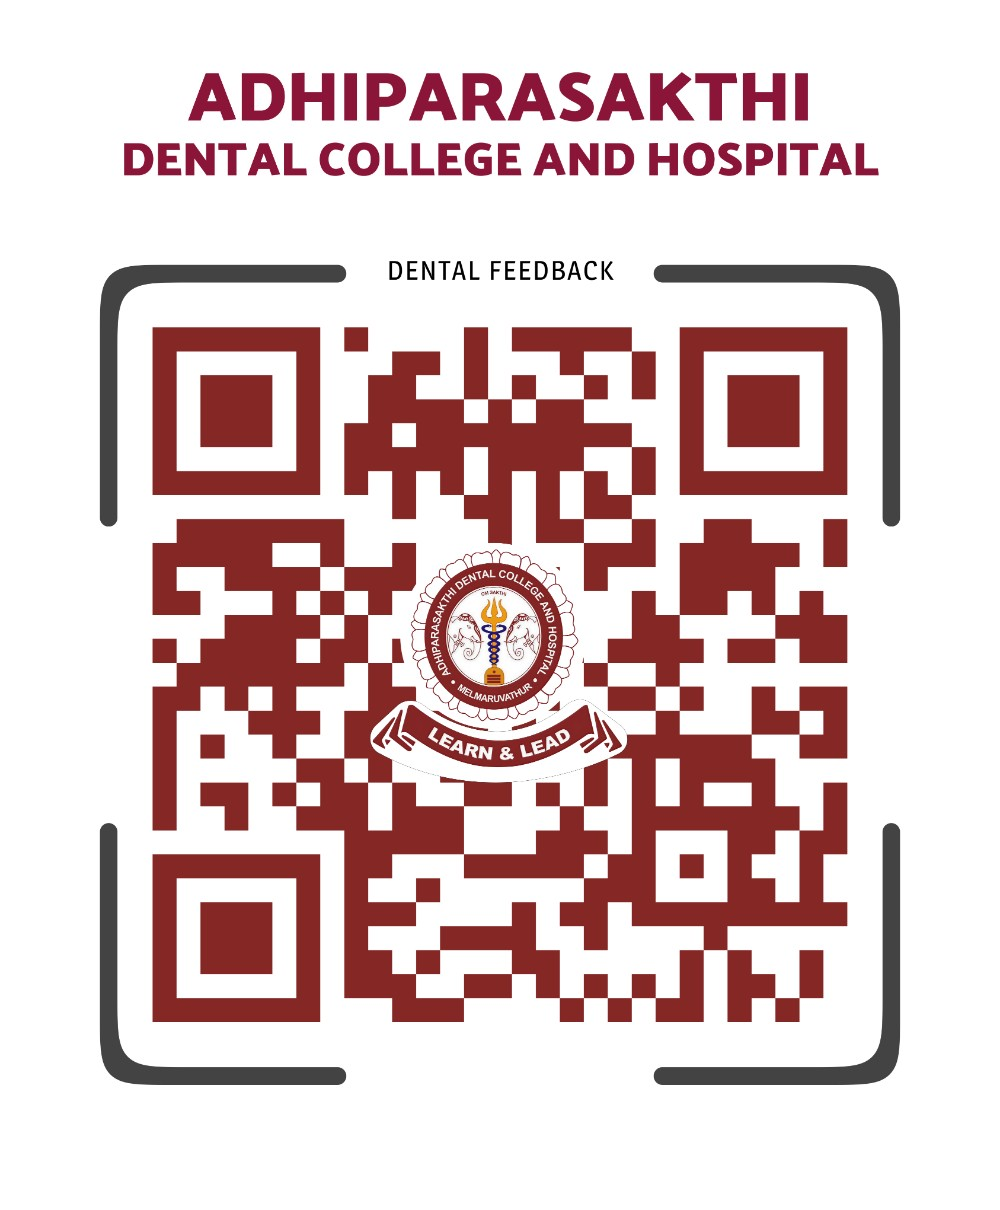
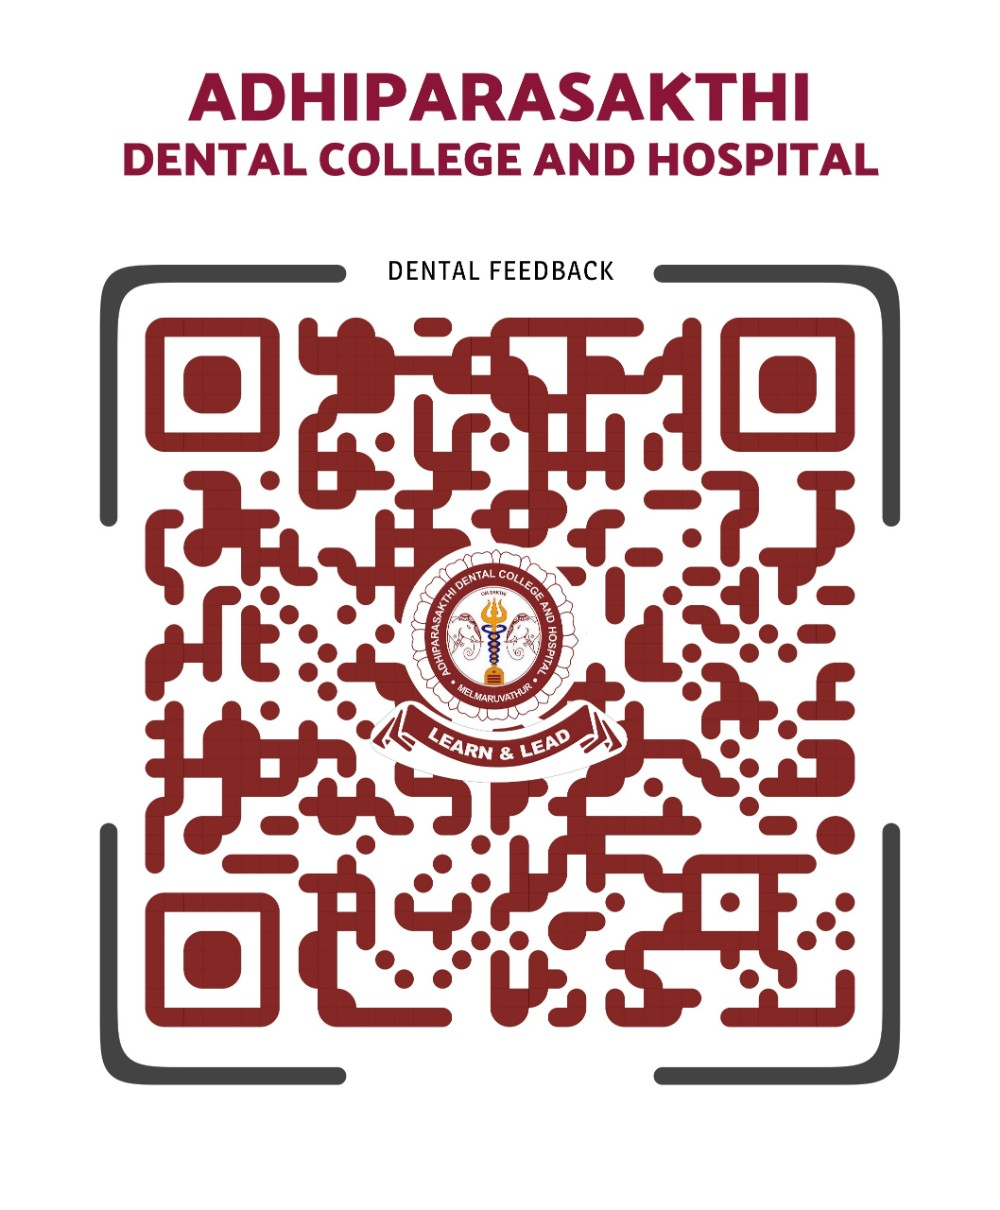
Use the updated feedback QR code that opens /feedback
The previous printed code pointed at the site root, which is the staff login.
The new one opens the patient feedback page; the scan target on the Overview
card is updated to match.

Changed region(s): [[0.124, 0.214, 0.868, 0.8562]]

diff --git a/frontend/src/app/components/AdminPage.tsx b/frontend/src/app/components/AdminPage.tsx
@@ -65,7 +65,7 @@ const STATUS_COLORS: Record<string, string> = {
 };
 
 /** The address the hospital's printed QR code opens. */
-const FEEDBACK_QR_TARGET = "http://pfs.apdch.mapims.edu.in/";
+const FEEDBACK_QR_TARGET = "http://pfs.apdch.mapims.edu.in/feedback";
 
 export function AdminPage({ readOnly = false }: { readOnly?: boolean } = {}) {
   const navigate = useNavigate();
